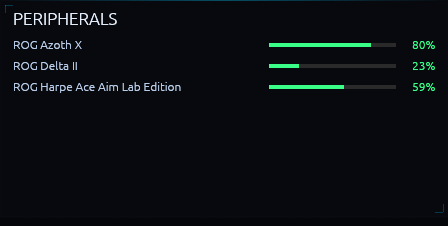
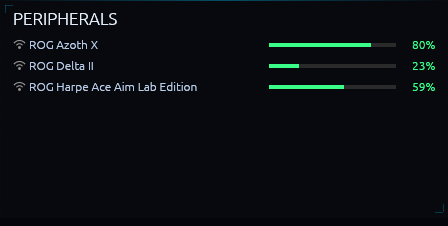
feat(peripherals): show how each wireless device is connected
The sidecar adds connection (usb, bluetooth, 2.4ghz) to each peripheral,
worked out from the HID path and product name - Bluetooth paths come via
BTHENUM or the HID-over-GATT service, the Omni receiver and dongles named
for 2.4 GHz are radio, the rest is a cable; no device command. The panel
and the tray card draw a small line icon in front of the name (the font has
no such glyphs). Contract example, both sides' tests and docs updated.

Refs #290

Changed region(s): [[0.0312, 0.3407, 0.4375, 0.4027], [0.0312, 0.2478, 0.2188, 0.3097], [0.0312, 0.1549, 0.2188, 0.2168]]

diff --git a/website/index.html b/website/index.html
@@ -589,6 +589,7 @@
             <ul>
               <li>Battery level (%) per device</li>
               <li>Charging state</li>
+              <li>Connection icon: USB, Bluetooth or 2.4 GHz</li>
               <li>Color-coded bar using the Battery panel's thresholds</li>
             </ul>
             <span class="source-tag">Sensor service</span>

diff --git a/src-egui/src/panels/peripherals.rs b/src-egui/src/panels/peripherals.rs
@@ -3,7 +3,9 @@
 //! receiver (`PollStats.peripherals`, about once a minute). One row per
 //! device: name, a charge bar, and the percentage.
 
-use egui::{pos2, Align2, FontId, Rect, RichText, Sense, Stroke, Ui, Vec2};
+use egui::{
+    pos2, vec2, Align2, Color32, FontId, Pos2, Rect, RichText, Sense, Shape, Stroke, Ui, Vec2,
+};
 use rigstats_backend::lhm::Peripheral;
 
 use super::battery::charge_color;
@@ -15,6 +17,77 @@ const CELL_PAD: f32 = 6.0;
 const BAR_SHARE: f32 = 0.30;
 /// Slot for the charging marker between the bar and the percentage.
 const MARK_W: f32 = 9.0;
+/// Slot for the connection icon in front of the name.
+const ICON_W: f32 = 16.0;
+
+/// How a device reaches the PC, from the sidecar's `connection`.
+#[derive(Debug, Clone, Copy, PartialEq, Eq)]
+enum Link {
+    Usb,
+    Bluetooth,
+    Radio,
+}
+
+fn link_of(connection: &str) -> Option<Link> {
+    match connection {
+        "usb" => Some(Link::Usb),
+        "bluetooth" => Some(Link::Bluetooth),
+        "2.4ghz" => Some(Link::Radio),
+        _ => None,
+    }
+}
+
+/// A small line-drawn connection icon centred at `c` in a `size` box —
+/// the font has no USB, Bluetooth or radio glyphs.
+fn paint_link_icon(painter: &egui::Painter, c: Pos2, size: f32, link: Link, color: Color32) {
+    let s = size / 2.0;
+    let stroke = Stroke::new((size / 9.0).max(1.0), color);
+    match link {
+        Link::Bluetooth => {
+            // The Bluetooth rune: a bar with two chevrons on its right.
+            let (l, r) = (c.x - s * 0.5, c.x + s * 0.5);
+            painter.add(Shape::line(
+                vec![
+                    pos2(l, c.y - s * 0.45),
+                    pos2(r, c.y + s * 0.45),
+                    pos2(c.x, c.y + s),
+                    pos2(c.x, c.y - s),
+                    pos2(r, c.y - s * 0.45),
+                    pos2(l, c.y + s * 0.45),
+                ],
+                stroke,
+            ));
+        }
+        Link::Radio => {
+            // A transmitter with two waves above it.
+            let base = pos2(c.x, c.y + s * 0.6);
+            painter.circle_filled(base, stroke.width * 1.2, color);
+            for radius in [s * 0.75, s * 1.4] {
+                let points = (0..=8)
+                    .map(|i| {
+                        let a = -std::f32::consts::FRAC_PI_4 * 3.0
+                            + std::f32::consts::FRAC_PI_2 * i as f32 / 8.0;
+                        base + vec2(a.cos(), a.sin()) * radius
+                    })
+                    .collect();
+                painter.add(Shape::line(points, stroke));
+            }
+        }
+        Link::Usb => {
+            // A plug: the head with its two contacts, the cable below.
+            let head = Rect::from_center_size(pos2(c.x, c.y - s * 0.35), vec2(s * 1.2, s * 0.9));
+            painter.rect_stroke(head, 0.0, stroke, egui::StrokeKind::Middle);
+            for dx in [-0.25, 0.25] {
+                let x = c.x + s * dx;
+                painter.line_segment(
+                    [pos2(x, head.top() - s * 0.35), pos2(x, head.top())],
+                    stroke,
+                );
+            }
+            painter.line_segment([pos2(c.x, head.bottom()), pos2(c.x, c.y + s)], stroke);
+        }
+    }
+}
 
 /// Where a row's columns go, as offsets from the row's left edge:
 /// `(name_w, bar_x0, bar_w)`. Right to left: the percentage takes `pct_w`
@@ -31,7 +104,8 @@ fn row_columns(inner_w: f32, pct_w: f32, sc: f32) -> (f32, f32, f32) {
 }
 
 /// One device row painted at fixed x positions (as the PROCESSES and GPU APPS
-/// panels do), so the columns line up whatever the names: name left, bar
+/// panels do), so the columns line up whatever the names: connection icon,
+/// name left, bar
 /// ending just before the right-aligned percentage, and a small accent
 /// triangle in front of the percentage while charging (the font has no bolt
 /// or arrow glyphs). Also drawn by the tray hover card (`app/tray_card.rs`).
@@ -58,9 +132,23 @@ pub fn paint_device_row(
         .x;
     let (name_w, bar_x0, bar_w) = row_columns(inner_w, pct_w, sc);
 
-    let name_clip = Rect::from_min_size(rect.min, Vec2::new(name_w, row_h));
+    let icon_w = ICON_W * sc;
+    if let Some(link) = link_of(&device.connection) {
+        paint_link_icon(
+            ui.painter(),
+            pos2(rect.min.x + icon_w / 2.0 - sc, cy),
+            10.0 * sc,
+            link,
+            Color32::from_gray(150),
+        );
+    }
+
+    let name_clip = Rect::from_min_size(
+        pos2(rect.min.x + icon_w, rect.min.y),
+        Vec2::new((name_w - icon_w).max(0.0), row_h),
+    );
     ui.painter().with_clip_rect(name_clip).text(
-        pos2(rect.min.x, cy),
+        pos2(rect.min.x + icon_w, cy),
         Align2::LEFT_CENTER,
         &device.name,
         font.clone(),
@@ -149,6 +237,14 @@ mod tests {
         assert_eq!(bar_x0 + bar_w, 280.0 - 28.0 - MARK_W);
         assert_eq!(bar_w, 280.0 * BAR_SHARE);
         assert_eq!(name_w, bar_x0 - CELL_PAD);
+    }
+
+    #[test]
+    fn connection_strings_map_to_icons() {
+        assert_eq!(link_of("usb"), Some(Link::Usb));
+        assert_eq!(link_of("bluetooth"), Some(Link::Bluetooth));
+        assert_eq!(link_of("2.4ghz"), Some(Link::Radio));
+        assert_eq!(link_of(""), None); // an older sidecar: no icon
     }
 
     #[test]

diff --git a/sensor-sidecar.Tests/PeripheralBatteryTests.cs b/sensor-sidecar.Tests/PeripheralBatteryTests.cs
@@ -51,6 +51,30 @@ public class BatteryRepliesTests
     }
 }
 
+public class ConnectionTests
+{
+    [Fact]
+    public void Bluetooth_shows_in_the_hid_path()
+    {
+        Assert.Equal(Connection.Bluetooth, Connection.Of(@"\?HID#{00001812-0000-1000-8000-00805f9b34fb}_Dev_VID&020b05_PID&1aaf#9&2b6d&0&0000#{4d1e55b2}", "ROG STRIX SCOPE II 96 WIRELESS"));
+        Assert.Equal(Connection.Bluetooth, Connection.Of(@"\?HID#BTHENUM#{00001124-0000-1000-8000-00805f9b34fb}_VID&0002046d_PID&b023#8&1", null));
+    }
+
+    [Fact]
+    public void A_receiver_or_a_dongle_named_for_it_is_2_4_ghz()
+    {
+        Assert.Equal(Connection.Radio, Connection.Of(@"\?HID#VID_0B05&PID_1ACE&MI_02&Col02#8&1", "ROG OMNI RECEIVER", receiver: true));
+        Assert.Equal(Connection.Radio, Connection.Of(@"\?HID#VID_0B05&PID_1AFA&MI_03#8&1", "ROG DELTA II (2.4GHz)"));
+        Assert.Equal(Connection.Radio, Connection.Of(@"\?HID#VID_0B05&PID_1A85&MI_02#8&1", "ROG AZOTH ROG Azoth (2.4 GHz)"));
+    }
+
+    [Fact]
+    public void Anything_else_is_a_cable()
+    {
+        Assert.Equal(Connection.Usb, Connection.Of(@"\?HID#VID_0B05&PID_1C24&MI_01#8&1", "ROG AZOTH X ROG Azoth X"));
+    }
+}
+
 public class PeripheralBatteryMonitorTests
 {
     private sealed class FakeBatteryDevice(string id, string kind, Func<BatteryStatus?> read, bool hasBattery = true)
@@ -66,6 +90,7 @@ public class PeripheralBatteryMonitorTests
         public void Release() { }
         public System.Text.Json.Nodes.JsonObject Diagnostics() => new();
         public bool HasBattery => hasBattery;
+        public string Connection => SensorSidecar.Control.Lighting.Connection.Radio;
         public int Reads { get; private set; }
         public BatteryStatus? ReadBattery() { Reads++; return read(); }
     }
@@ -80,7 +105,7 @@ public class PeripheralBatteryMonitorTests
 
         var result = Monitor().ReadAll([keyboard, wired]);
 
-        Assert.Equal(new PeripheralStatus("kb", "Device kb", "keyboard", 80, false), Assert.Single(result));
+        Assert.Equal(new PeripheralStatus("kb", "Device kb", "keyboard", 80, false, "2.4ghz"), Assert.Single(result));
         Assert.Equal(0, wired.Reads);
     }
 
@@ -129,8 +154,8 @@ public class TelemetryContractTests
             [new MbVoltage("Vcore", 1.1f)],
             "Nuvoton NCT6799D",
             [
-                new PeripheralStatus("asus-keyboard-1ace-1", "ROG Azoth X", "keyboard", 82, false),
-                new PeripheralStatus("asus-headset-1afa-1", "ROG Delta II", "headset", 24, true),
+                new PeripheralStatus("asus-keyboard-1ace-1", "ROG Azoth X", "keyboard", 82, false, "2.4ghz"),
+                new PeripheralStatus("asus-headset-1afa-1", "ROG Delta II", "headset", 24, true, "2.4ghz"),
             ]);
 
         var json = JsonSerializer.Serialize(payload, HardwareHost.TelemetryJsonOptions);

diff --git a/sensor-sidecar/Control/Lighting/Battery.cs b/sensor-sidecar/Control/Lighting/Battery.cs
@@ -15,6 +15,33 @@ public interface IBatteryDevice
     /// The battery now, or null when the device doesn't answer (asleep, off,
     /// out of range).
     BatteryStatus? ReadBattery();
+
+    /// How it reaches the PC — one of the <see cref="Connection"/> values.
+    string Connection { get; }
+}
+
+/// How a wireless device reaches the PC, for the Peripherals panel's icon.
+/// Worked out from what Windows already knows (no device command): the HID
+/// path and product string.
+public static class Connection
+{
+    public const string Usb = "usb";
+    public const string Bluetooth = "bluetooth";
+    public const string Radio = "2.4ghz";
+
+    /// Bluetooth when the HID path comes through `BTHENUM` (classic) or the
+    /// HID-over-GATT service `{00001812-…}` (LE); 2.4 GHz for a receiver or
+    /// a dongle whose product or model name says so ("ROG DELTA II
+    /// (2.4GHz)", "ROG Azoth (2.4 GHz)"); otherwise a cable.
+    public static string Of(string path, string? names, bool receiver = false)
+    {
+        if (path.Contains("BTHENUM", StringComparison.OrdinalIgnoreCase)
+            || path.Contains("{00001812-0000-1000-8000-00805f9b34fb}", StringComparison.OrdinalIgnoreCase))
+            return Bluetooth;
+        if (receiver || (names is not null && names.Contains("2.4", StringComparison.Ordinal)))
+            return Radio;
+        return Usb;
+    }
 }
 
 /// Battery reply layouts per device type, byte positions including the

diff --git a/rigstats-backend/src/lhm.rs b/rigstats-backend/src/lhm.rs
@@ -62,6 +62,9 @@ pub struct Peripheral {
     pub kind: String,
     pub battery: u8,
     pub charging: bool,
+    /// How it reaches the PC: "usb", "bluetooth" or "2.4ghz" (empty from a
+    /// sidecar that doesn't say).
+    pub connection: String,
 }
 
 // --- Tests -----------------------------------------------------------------
@@ -98,6 +101,7 @@ mod tests {
                     kind: "keyboard".into(),
                     battery: 82,
                     charging: false,
+                    connection: "2.4ghz".into(),
                 },
                 Peripheral {
                     id: "asus-headset-1afa-1".into(),
@@ -105,6 +109,7 @@ mod tests {
                     kind: "headset".into(),
                     battery: 24,
                     charging: true,
+                    connection: "2.4ghz".into(),
                 },
             ]
         );
@@ -418,6 +423,8 @@ struct SidecarPeripheral {
     kind: String,
     battery: u8,
     charging: bool,
+    #[serde(default)]
+    connection: String,
 }
 
 #[derive(serde::Deserialize)]
@@ -597,6 +604,7 @@ impl SidecarPayload {
                     kind: p.kind,
                     battery: p.battery.min(100),
                     charging: p.charging,
+                    connection: p.connection,
                 })
                 .collect(),
         }

diff --git a/sensor-sidecar/Control/PeripheralBatteryMonitor.cs b/sensor-sidecar/Control/PeripheralBatteryMonitor.cs
@@ -4,7 +4,7 @@ using SensorSidecar.Control.Lighting;
 namespace SensorSidecar.Control;
 
 /// One wireless device's battery in the telemetry (`peripherals`, #290).
-public sealed record PeripheralStatus(string Id, string Name, string Kind, int Battery, bool Charging);
+public sealed record PeripheralStatus(string Id, string Name, string Kind, int Battery, bool Charging, string Connection);
 
 /// The latest battery readings, written by `PeripheralBatteryMonitor` and
 /// read by `HardwareHost` for every telemetry sample.
@@ -64,7 +64,7 @@ public sealed class PeripheralBatteryMonitor(LightingProvider lighting, Peripher
                     // not every minute.
                     if (!_lastKnown.TryGetValue(device.Id, out var before) || before.Charging != status.Charging)
                         SidecarLog.Log($"[rigstats-control] Battery: {device.Name} {status.Percent} %{(status.Charging ? ", charging" : "")}.");
-                    _lastKnown[device.Id] = new PeripheralStatus(device.Id, device.Name, device.Kind, status.Percent, status.Charging);
+                    _lastKnown[device.Id] = new PeripheralStatus(device.Id, device.Name, device.Kind, status.Percent, status.Charging, battery.Connection);
                     _failureLogged.Remove(device.Id);
                 }
             }

diff --git a/sensor-sidecar/Control/Lighting/AsusKeyboardDevice.cs b/sensor-sidecar/Control/Lighting/AsusKeyboardDevice.cs
@@ -392,6 +392,9 @@ public sealed class AsusKeyboardDevice : ILightingDevice, IBatteryDevice, IDispo
 
     public bool HasBattery { get; }
 
+    /// The Omni receiver is 2.4 GHz; a model's own dongle says so in its name.
+    public string Connection => Lighting.Connection.Of(_info.Path, $"{_info.Product} {_model.Name}", _model.Receiver);
+
     /// `12 01` — the keyboards' power question (Gear Link's keyboard power
     /// classes and G-Helper agree). Only asked when the model has a battery.
     public BatteryStatus? ReadBattery()

diff --git a/sensor-sidecar/Control/Lighting/LampArrayDevice.cs b/sensor-sidecar/Control/Lighting/LampArrayDevice.cs
@@ -252,6 +252,9 @@ public sealed class LampArrayDevice : ILightingDevice, IWdlDevice, IBatteryDevic
 
     public BatteryStatus? ReadBattery() => _omni?.ReadBattery();
 
+    /// Only the Omni receiver's mouse reports a battery here — 2.4 GHz.
+    public string Connection => Lighting.Connection.Radio;
+
     public void EnableWdl() =>
         (_omni ?? throw new InvalidOperationException($"{Name} has no lighting mode to switch.")).SetWdl(true);
 

diff --git a/sensor-sidecar/Control/Lighting/AsusHeadsetDevice.cs b/sensor-sidecar/Control/Lighting/AsusHeadsetDevice.cs
@@ -143,6 +143,8 @@ public sealed class AsusHeadsetDevice : ILightingDevice, IBatteryDevice, IDispos
     /// (get key 7) and `chargingStatus` (key 8).
     public bool HasBattery => true;
 
+    public string Connection => Lighting.Connection.Of(_info.Path, _info.Product);
+
     public BatteryStatus? ReadBattery()
     {
         lock (_lock)

diff --git a/src-egui/src/alerts.rs b/src-egui/src/alerts.rs
@@ -192,6 +192,7 @@ mod tests {
             kind: "mouse".into(),
             battery,
             charging,
+            connection: "2.4ghz".into(),
         }
     }
 

diff --git a/docs/control-architecture.md b/docs/control-architecture.md
@@ -912,7 +912,7 @@ an `FF AA` error read as no answer. `PeripheralBatteryMonitor` asks once a
 minute (first after 10 s), keeps a silent device's last reading while it stays
 connected, logs the first reading and charging changes (`Battery: ROG Azoth X
 82 %.`), and `HardwareHost` adds the list to every telemetry line as
-`peripherals: [{id, name, kind, battery, charging}]` — omitted until the first
+`peripherals: [{id, name, kind, battery, charging, connection}]` (`connection`: `usb`, `bluetooth` or `2.4ghz`, from `Connection.Of` — Bluetooth from the HID path (`BTHENUM` or the HID-over-GATT service `{00001812-…}`), 2.4 GHz for a receiver or a dongle whose product/model name says "2.4", else a cable; no device command) — omitted until the first
 round, so the golden fixtures don't carry it. The field's shape is pinned by
 `sensor-sidecar.Tests/contract/telemetry-peripherals.json`, which the Rust
 reader checks too. Not covered yet: ROG mice on their own 2.4 GHz dongle or

diff --git a/README.md b/README.md
@@ -327,6 +327,7 @@ Vendor-neutral (NVIDIA / AMD / Intel) and reads without elevation — no sensor 
 | --- | --- |
 | Battery level (%) per wireless device | Sensor service, read once a minute from the device: ROG headsets (Delta II, Pelta), and ROG keyboards and mice on the ROG Omni receiver |
 | Charging state | Same |
+| Connection (USB cable, Bluetooth, 2.4 GHz) | Windows HID path and product name — no device command; shown as a small icon |
 
 Colours follow the Battery panel's charge thresholds, and so does the low-battery notification (only while discharging, one per device). Hovering the tray icon shows a small card with each device's battery in the same colours. Commands come from ASUS Gear Link's device data, cross-checked with G-Helper; devices nobody has tested yet are read the same way. Bluetooth devices come later (#291).
 
